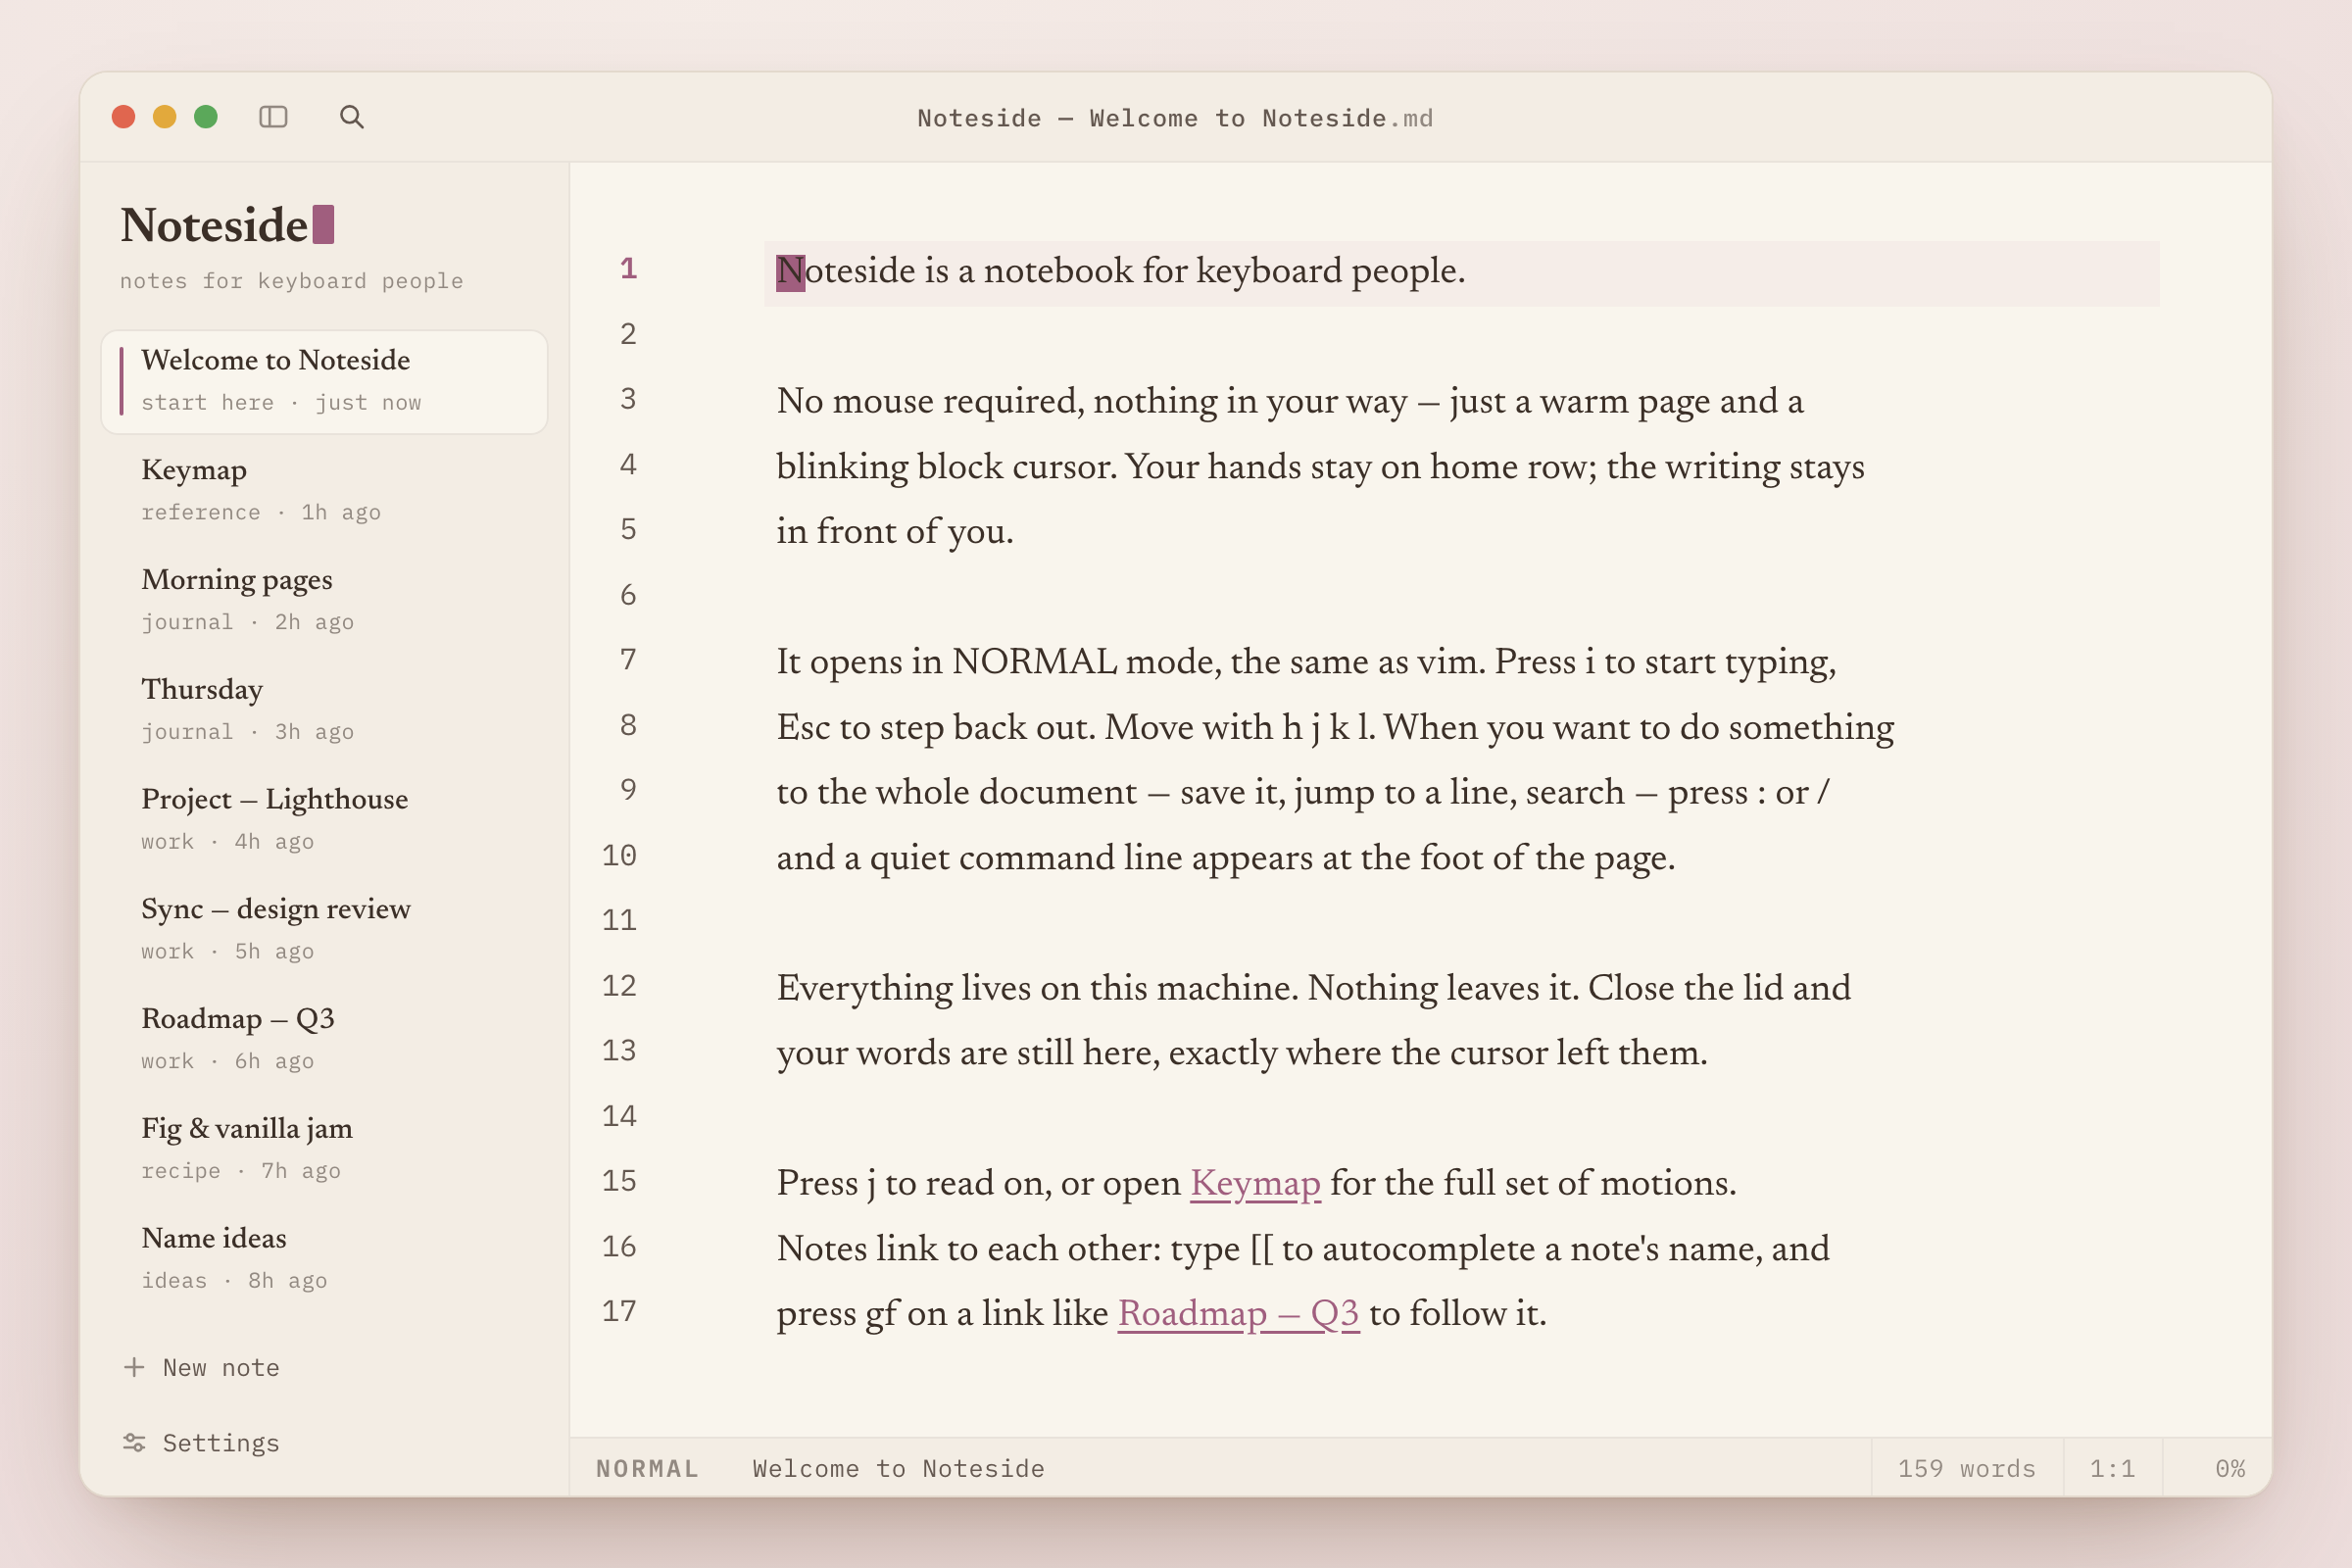
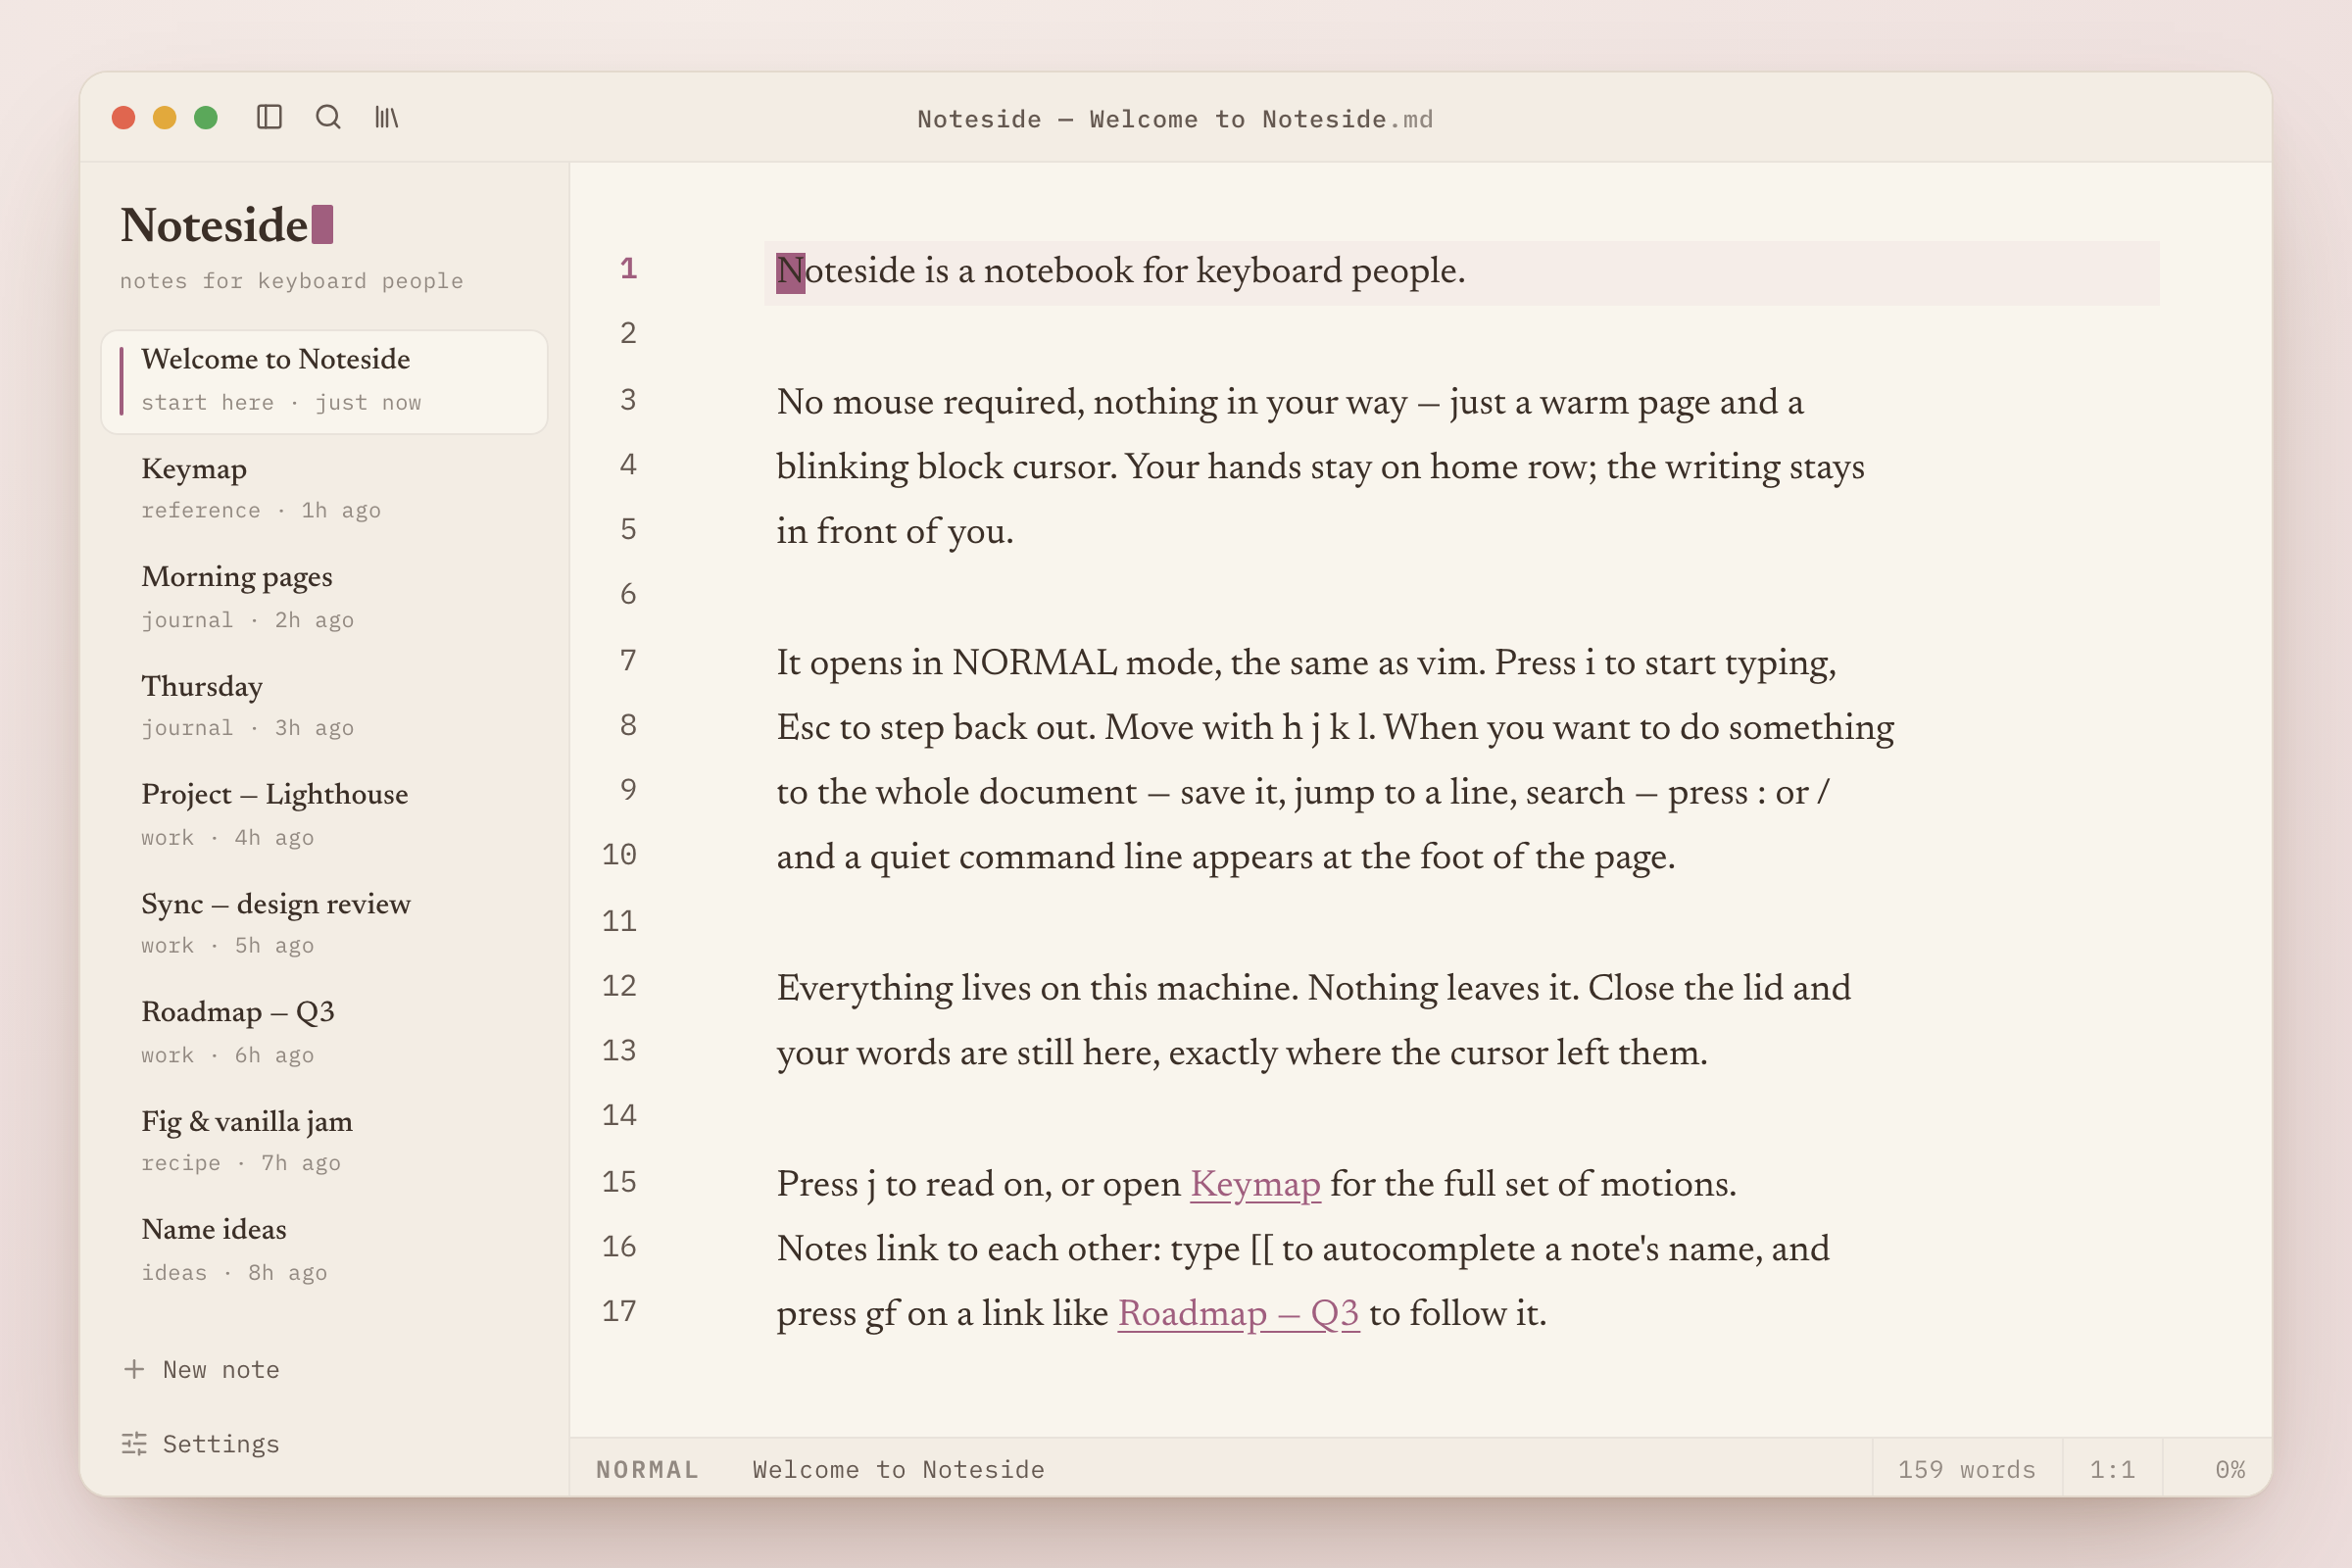
docs: refresh the app screenshots for the updated toolbar

diff --git a/README.md b/README.md
@@ -27,11 +27,6 @@
 
 ---
 
-Noteside is a desktop notebook for people who'd rather keep their hands on home
-row — full vim if you want it, conventional `⌘`-shortcuts if you don't. The page is
-the interface, and every note is a plain `.md` file in a folder you choose — grep it,
-back it up, sync it, or walk away with it. Nothing leaves your machine.
-
 ## Install
 
 Download for **macOS, Windows, or Linux** from **[noteside.app](https://noteside.app)** —
@@ -79,4 +74,4 @@ the dev/build commands, the project layout, and the conventions.
 
 ## License
 
-[MIT](LICENSE) © Noteside — built by [Josh Daniel](https://github.com/joshxfi)
+[MIT](LICENSE) © Noteside — built by Josh Daniel